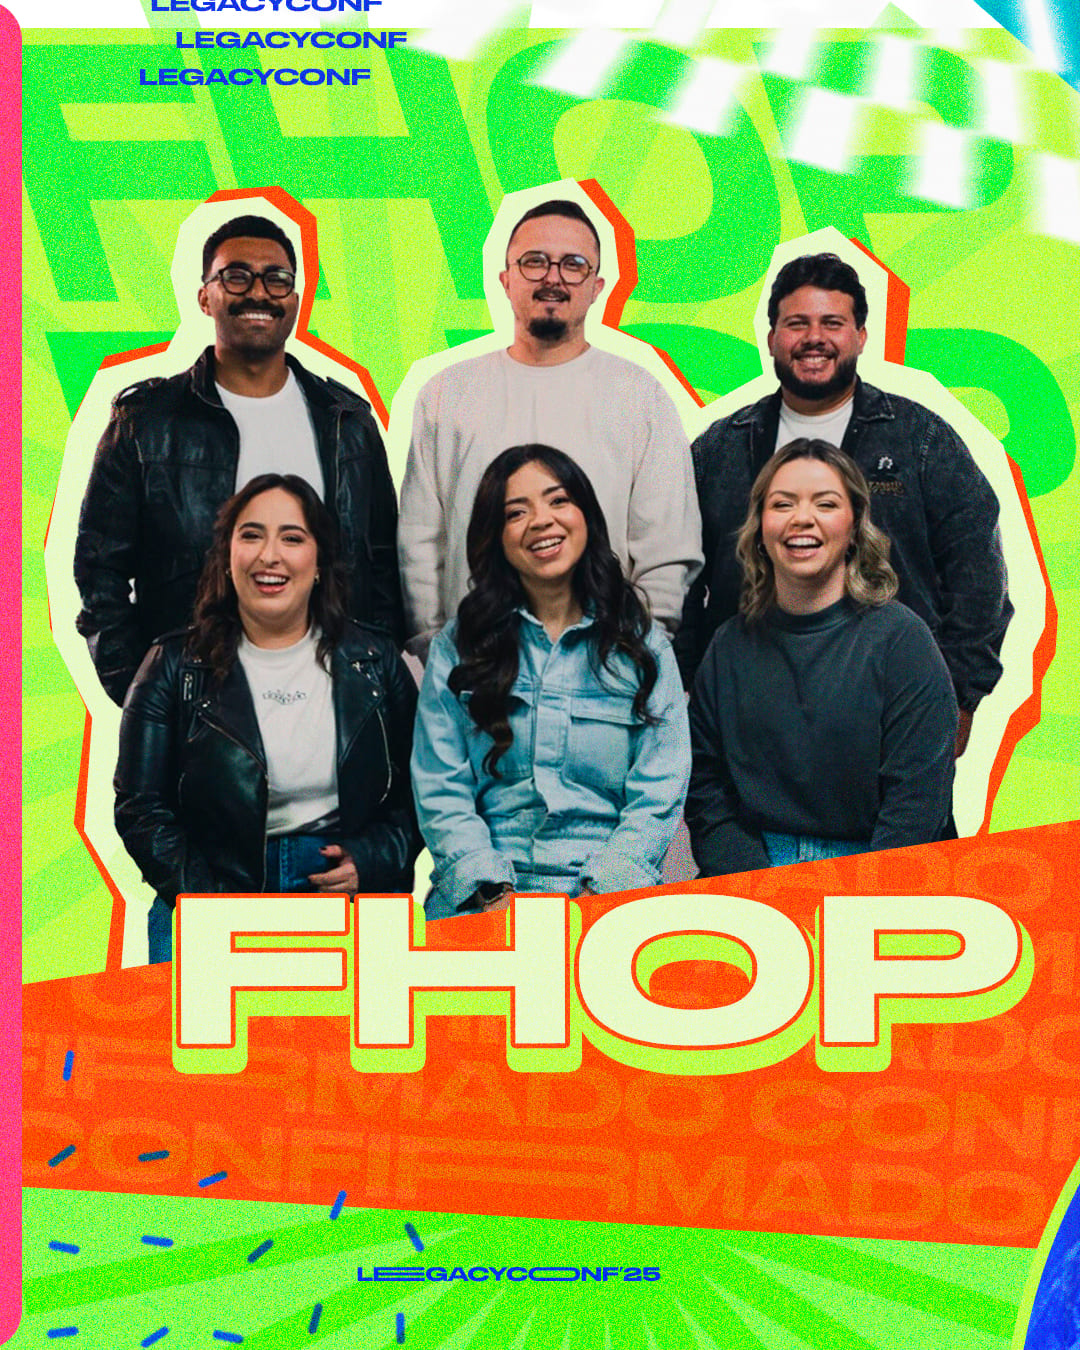
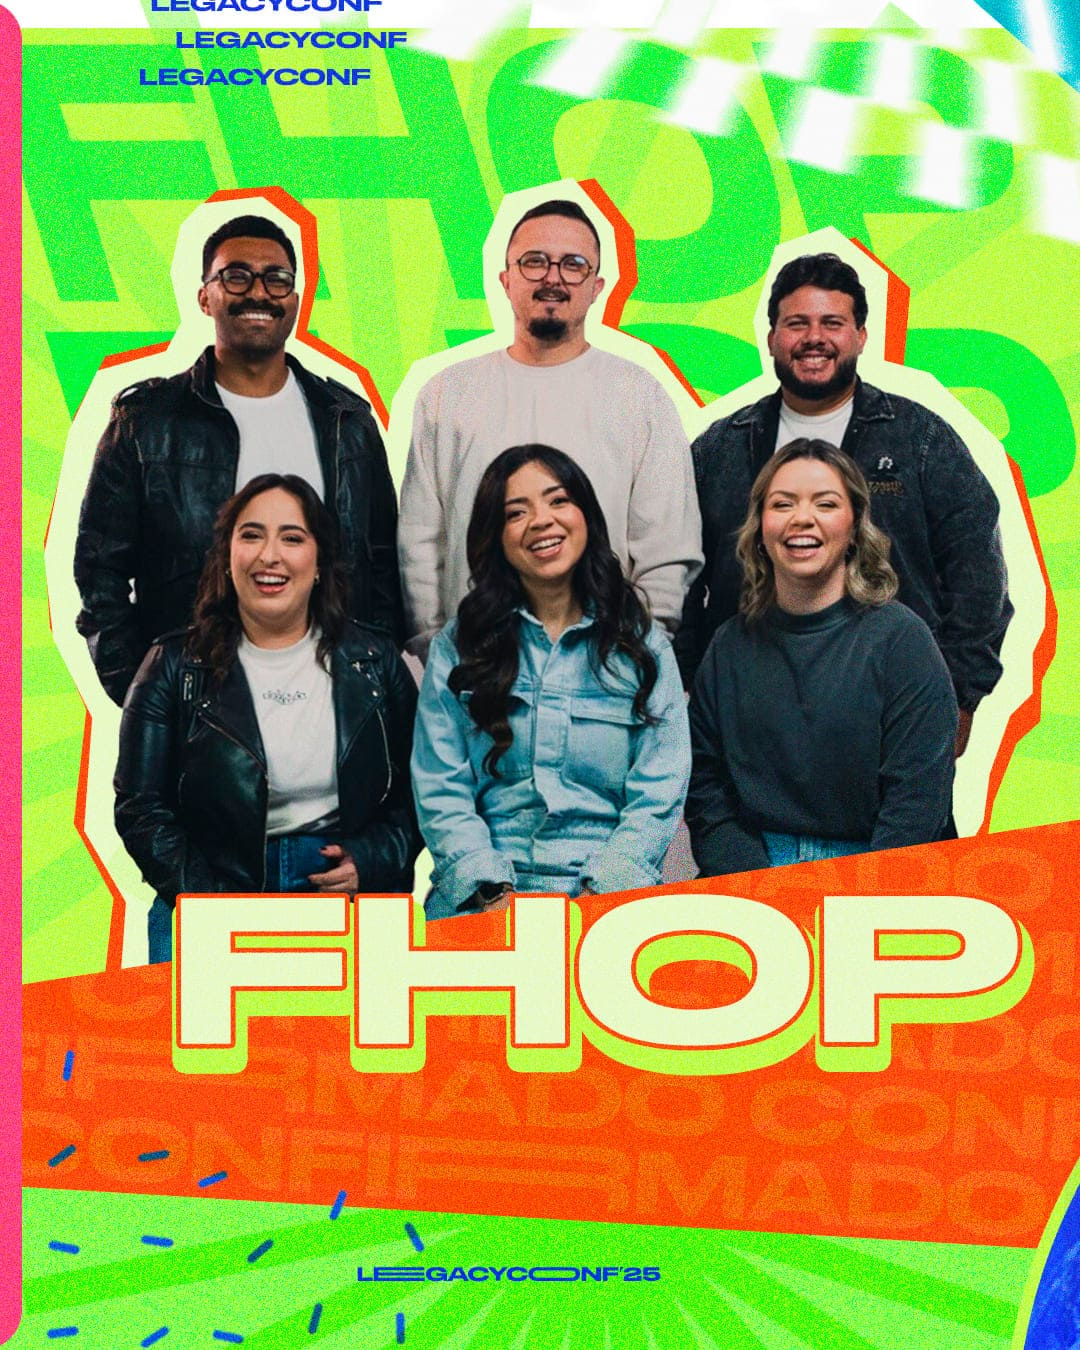
Add new guest

diff --git a/src/pages/conference/finalConf.jsx b/src/pages/conference/finalConf.jsx
@@ -25,9 +25,9 @@ const FinalConference = () => {
       image: "/images/conference/lineup/isaias.jpg",
     },
     {
-      name: "",
-      description: "",
-      image: "",
+      name: "Giovana Chartres",
+      description: "Giovana Chartres é cantora e compositora cristã. Ganhou destaque nas redes sociais com seus vídeos descontraídos e também tem se dedicado à adoração por meio da música. Sua missão tem sido tocar vidas e propagar o Reino.",
+      image: "/images/conference/lineup/giovana.jpg",
     },
     {
       name: "",
